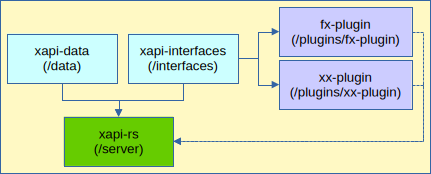
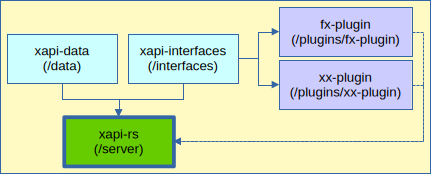
# UNPUBLISHED | Version 0.3.1 (2026-xx-xx)
* Update diagrams.
* Upgrade dependencies to latest versions.

Changed region(s): [[0.1206, 0.6609, 0.4223, 0.977], [0.1508, 0.546, 0.4223, 0.6034]]

diff --git a/server/CHANGELOG.md b/server/CHANGELOG.md
@@ -1,3 +1,8 @@
+# UNPUBLISHED | Version 0.3.1 (2026-xx-xx)
+
+* Update diagrams.
+* Upgrade dependencies to latest versions.
+
 # Version 0.3.0 (2026-09-04)
 
 * Use Rust 1.98.1.
